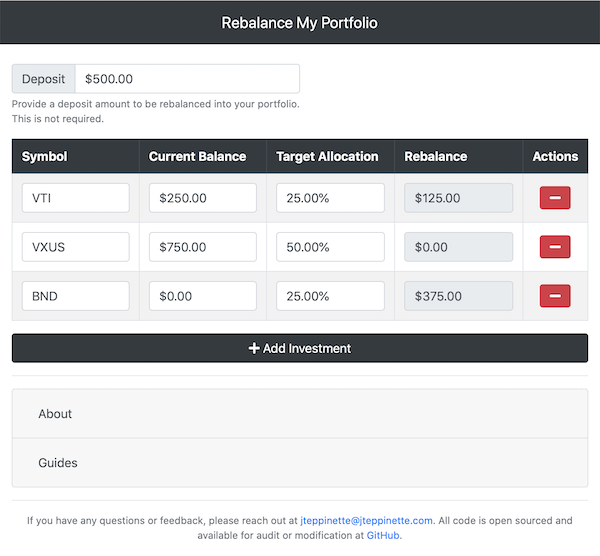
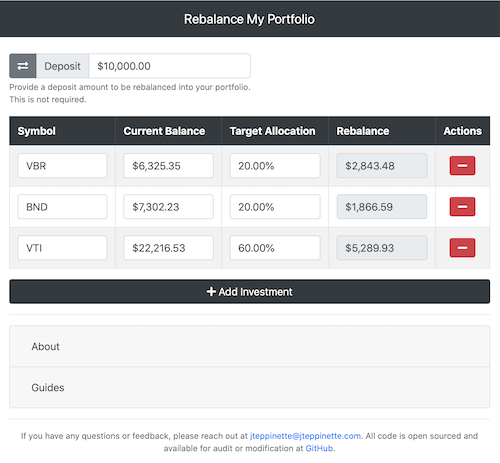
Add withdraw functionality

diff --git a/content.js b/content.js
@@ -34,9 +34,9 @@ function About () {
         <strong>When</strong>
       </p>
       <p>
-        If you find yourself needing to add funds to your portfolio or perform a
-        regular rebalancing operation, then this tool will save you time while
-        offering accurate results.
+        If you find yourself needing to add funds to your portfolio, withdraw
+        funds from your portfolio, or perform a regular rebalancing operation,
+        then this tool will save you time while offering accurate results.
       </p>
 
       <p>
@@ -73,7 +73,39 @@ function About () {
 function Guides () {
   return (
     <div className='row'>
-      <div className='col-lg'>
+      <div className='col-lg-6'>
+        <div className='card mb-3'>
+          <div className='card-body'>
+            <h5 className='card-title'>Rebalance Portfolio</h5>
+            <p className='card-text'>
+              I want to rebalance my portfolio without making a deposit or
+              withdrawal.
+            </p>
+          </div>
+          <ul className='list-group list-group-flush'>
+            <li className='list-group-item d-flex justify-content-between align-items-center'>
+              <span className='badge badge-primary badge-pill'>Step One</span>
+              Add Current Investments
+            </li>
+            <li className='list-group-item d-flex justify-content-between align-items-center'>
+              <span className='badge badge-primary badge-pill'>Step Two</span>
+              Update Portfolio
+            </li>
+          </ul>
+          <div className='card-body'>
+            <p>
+              Each investment's rebalance cell will represent the change in
+              balance required to bring it back to the proper allocation. We
+              have left the <i>Deposit</i> field empty to indiciate that we will
+              only be using existing money to bring the portfolio back to an
+              appropriate asset allocation. This will result in some
+              investment's having a negative <i>Rebalance</i> value.
+            </p>
+          </div>
+        </div>
+      </div>
+
+      <div className='col-lg-6'>
         <div className='card mb-3'>
           <div className='card-body'>
             <h5 className='card-title'>Add New Money</h5>
@@ -84,62 +116,62 @@ function Guides () {
             </p>
           </div>
           <ul className='list-group list-group-flush'>
-            <li class='list-group-item d-flex justify-content-between align-items-center'>
-              <span class='badge badge-primary badge-pill'>Step One</span>
-              Set Deposit Field
+            <li className='list-group-item d-flex justify-content-between align-items-center'>
+              <span className='badge badge-primary badge-pill'>Step One</span>
+              Set Deposit Amount
             </li>
-            <li class='list-group-item d-flex justify-content-between align-items-center'>
-              <span class='badge badge-primary badge-pill'>Step Two</span>
+            <li className='list-group-item d-flex justify-content-between align-items-center'>
+              <span className='badge badge-primary badge-pill'>Step Two</span>
               Add Current Investments
             </li>
-            <li class='list-group-item d-flex justify-content-between align-items-center'>
-              <span class='badge badge-primary badge-pill'>Step Three</span>
+            <li className='list-group-item d-flex justify-content-between align-items-center'>
+              <span className='badge badge-primary badge-pill'>Step Three</span>
               Update Portfolio
             </li>
           </ul>
           <div className='card-body'>
             <p>
-              Each investment's rebalance cell will represent the change
-              required to that investment to bring it back to the proper
-              allocation. This will include a proper distribution of the new
-              money indicated using the <i>Deposit</i> field.
+              Each investment's rebalance cell will represent the change in
+              balance required to bring it back to the proper allocation. This
+              will include a proper distribution of the newly deposited money.
             </p>
           </div>
         </div>
       </div>
 
-      <div className='col-lg'>
+      <div className='col-lg-6'>
         <div className='card mb-3'>
           <div className='card-body'>
-            <h5 className='card-title'>Rebalance Portfolio</h5>
+            <h5 className='card-title'>Pull Out Money</h5>
             <p className='card-text'>
-              I want to rebalance my portfolio without making a deposit or
-              withdrawal.
+              I want to pull out money from my portfolio. The money should be
+              appropriately withdrawn from each investment as to bring my
+              portfolio back to the desired asset allocation.
             </p>
           </div>
           <ul className='list-group list-group-flush'>
-            <li class='list-group-item d-flex justify-content-between align-items-center'>
-              <span class='badge badge-primary badge-pill'>Step One</span>
-              Skip Deposit Field
+            <li className='list-group-item d-flex justify-content-between align-items-center'>
+              <span className='badge badge-primary badge-pill'>Step One</span>
+              Switch to Withdraw Mode
             </li>
-            <li class='list-group-item d-flex justify-content-between align-items-center'>
-              <span class='badge badge-primary badge-pill'>Step Two</span>
+            <li className='list-group-item d-flex justify-content-between align-items-center'>
+              <span className='badge badge-primary badge-pill'>Step Two</span>
+              Set Withdraw Amount
+            </li>
+            <li className='list-group-item d-flex justify-content-between align-items-center'>
+              <span className='badge badge-primary badge-pill'>Step Three</span>
               Add Current Investments
             </li>
-            <li class='list-group-item d-flex justify-content-between align-items-center'>
-              <span class='badge badge-primary badge-pill'>Step Three</span>
+            <li className='list-group-item d-flex justify-content-between align-items-center'>
+              <span className='badge badge-primary badge-pill'>Step Four</span>
               Update Portfolio
             </li>
           </ul>
           <div className='card-body'>
             <p>
-              Each investment's rebalance cell will represent the change
-              required to that investment to bring it back to the proper
-              allocation. We have left the <i>Deposit</i> field empty to
-              indiciate that we will only be using existing money to bring the
-              portfolio back to an appropriate asset allocation. This will
-              result in some investment's having a negative <i>Rebalance</i>{' '}
-              value.
+              Each investment's rebalance cell will represent the change in
+              balance required to bring it back to the proper allocation. The
+              total rebalance should equal the withdraw amount.
             </p>
           </div>
         </div>

diff --git a/app.js b/app.js
@@ -9,17 +9,30 @@ class App extends Component {
   initial = [{ symbol: '', balance: 0, target: 1, rebalance: 0 }]
   state = {
     investments: this.initial,
-    deposit: 0
+    withdrawDeposit: 0,
+    isDeposit: true
   }
 
   render () {
-    const { investments, deposit } = this.state
+    const { investments, withdrawDeposit, isDeposit } = this.state
 
     const addInvestment = this.addInvestment.bind(this),
       cancelSubmit = this.cancelSubmit.bind(this)
 
     const hasInvalidTargetAllocation =
       investments.reduce((sum, investment) => sum + investment.target, 0) !== 1
+
+    const existingBalance = investments.reduce(
+      (sum, investment) =>
+        sum.add(Dinero({ amount: investment.balance * 100 })),
+      Dinero()
+    )
+
+    const targetBalance = isDeposit
+      ? existingBalance.add(Dinero({ amount: withdrawDeposit * 100 }))
+      : existingBalance.subtract(Dinero({ amount: withdrawDeposit * 100 }))
+
+    const hasInsufficientFunds = targetBalance.isNegative()
 
     return (
       <div>
@@ -35,20 +48,34 @@ class App extends Component {
                 </label>
                 <div className='input-group'>
                   <div className='input-group-prepend'>
-                    <div className='input-group-text'>Deposit</div>
+                    <button
+                      className='btn btn-secondary'
+                      type='button'
+                      onClick={() => this.updateWithdrawDeposit(0, !isDeposit)}
+                    >
+                      <i className='fas fa-exchange-alt'></i>
+                    </button>
+                    <div className='input-group-text'>
+                      {isDeposit ? 'Deposit' : 'Withdraw'}
+                    </div>
                   </div>
                   <Numeric
+                    key={isDeposit}
                     type='text'
                     name='deposit'
-                    value={deposit}
-                    onChange={(event, value) => this.updateDeposit(value)}
+                    value={withdrawDeposit}
+                    onChange={(event, value) =>
+                      this.updateWithdrawDeposit(value, isDeposit)
+                    }
                     predefined='dollar'
                     minimumValue={0}
                     className='form-control'
                   />
                 </div>
                 <small className='form-text text-muted'>
-                  Provide a deposit amount to be rebalanced into your portfolio.
+                  {isDeposit
+                    ? 'Provide a deposit amount to be rebalanced into your portfolio.'
+                    : 'Provide a withdraw amount which will be rebalanced out of your portfolio.'}
                   <br />
                   This is not required.
                 </small>
@@ -100,13 +127,24 @@ class App extends Component {
               </div>
             </div>
           )}
+          {hasInsufficientFunds && (
+            <div className='card text-center mb-3'>
+              <div className='card-body'>
+                <h5 className='card-title text-warning'>Insufficient Funds</h5>
+                <p className='card-text text-muted'>
+                  Your {existingBalance.toFormat()} portfolio balance is less
+                  than the withdraw amount.
+                </p>
+              </div>
+            </div>
+          )}
           <button onClick={addInvestment} className='btn btn-dark btn-block'>
             <i className='fas fa-plus'></i> Add Investment
           </button>
           <hr />
           <Content />
           <hr />
-          <div className='text-center'>
+          <div className='text-center mb-3'>
             <small className='text-muted'>
               If you have any questions or feedback, please reach out at{' '}
               <a href='mailto:jteppinette@jteppinette.com'>
@@ -138,27 +176,25 @@ class App extends Component {
       investments: this.state.investments.filter((investment, i) => i !== index)
     })
   }
-  calculateRebalances (investments, deposit) {
-    const totalBalance = investments
-      .reduce(
-        (sum, investment) =>
-          sum.add(Dinero({ amount: investment.balance * 100 })),
-        Dinero()
-      )
-      .add(Dinero({ amount: deposit * 100 }))
+  calculateRebalances (investments, withdrawDeposit, isDeposit) {
+    const existingBalance = investments.reduce(
+      (sum, investment) =>
+        sum.add(Dinero({ amount: investment.balance * 100 })),
+      Dinero()
+    )
 
-    if (totalBalance.isZero()) {
-      return investments.map(() => 0)
-    }
+    const targetBalance = isDeposit
+      ? existingBalance.add(Dinero({ amount: withdrawDeposit * 100 }))
+      : existingBalance.subtract(Dinero({ amount: withdrawDeposit * 100 }))
 
     const hasInvalidTargetAllocation =
       investments.reduce((sum, investment) => sum + investment.target, 0) !== 1
 
-    if (hasInvalidTargetAllocation) {
-      return investments.map(() => undefined)
+    if (hasInvalidTargetAllocation || targetBalance.isNegative()) {
+      return investments.map(() => 0)
     }
 
-    return totalBalance
+    return targetBalance
       .allocate(investments.map(investment => investment.target))
       .map((allocation, index) => {
         return (
@@ -168,21 +204,30 @@ class App extends Component {
         )
       })
   }
-  updateDeposit (deposit) {
-    const rebalances = this.calculateRebalances(this.state.investments, deposit)
+  updateWithdrawDeposit (value, isDeposit) {
+    const rebalances = this.calculateRebalances(
+      this.state.investments,
+      value,
+      isDeposit
+    )
 
     Object.entries(rebalances).forEach(([index, rebalance]) => {
       this.state.investments[index].rebalance = rebalance
     })
 
-    this.setState({ investments: this.state.investments, deposit: deposit })
+    this.setState({
+      investments: this.state.investments,
+      withdrawDeposit: value,
+      isDeposit
+    })
   }
   updateInvestment (index, field, value) {
     this.state.investments[index][field] = value
 
     const rebalances = this.calculateRebalances(
       this.state.investments,
-      this.state.deposit
+      this.state.withdrawDeposit,
+      this.state.isDeposit
     )
 
     Object.entries(rebalances).forEach(([index, rebalance]) => {
